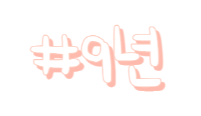
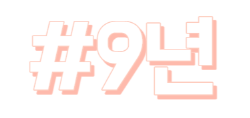
Add gallery images and Modify fonts in images

Changed region(s): [[0.0896, 0.1293, 0.8955, 0.8534], [0.4179, 0.181, 0.5373, 0.2069]]

diff --git a/index.html b/index.html
@@ -51,44 +51,46 @@
                 </div>
                 <div class="contact__wife">
                     <img class="to__main" src="./assets/images/invitation/to_wife.png">
-                    <img class="icon__call" src="./assets/images/invitation/call_pink.png">
-                    <img class="icon__sms" src="./assets/images/invitation/sms_pink.png">
+                    <a href="tel:01099051213"><img class="icon__call" src="./assets/images/invitation/call_pink.png"></a>
+                    <a href="sms:01099051213"><img class="icon__sms" src="./assets/images/invitation/sms_pink.png"></a>
                 </div>
                 <div class="contact_parents">
                     <div class="contact__parent--husband float__left">
                         <img class="to__parent" src="./assets/images/invitation/to_husband_parent.png">
                         <div class="to__father">
                             <img class="to__name" src="./assets/images/invitation/to_husband_father.png">
-                            <img class="icon__call--parent" src="./assets/images/invitation/call_blue.png">
-                            <img class="icon__sms--parent" src="./assets/images/invitation/sms_blue.png">
+                            <a href="tel:01048085283"><img class="icon__call--parent" src="./assets/images/invitation/call_blue.png"></a>
+                            <a href="sms:01048085283"><img class="icon__sms--parent" src="./assets/images/invitation/sms_blue.png"></a>
                         </div>
                         <div class="to__mother">
                             <img class="to__name" src="./assets/images/invitation/to_husband_mother.png">
-                            <img class="icon__call--parent" src="./assets/images/invitation/call_blue.png">
-                            <img class="icon__sms--parent" src="./assets/images/invitation/sms_blue.png">
+                            <a href="tel:01024845283"><img class="icon__call--parent" src="./assets/images/invitation/call_blue.png"></a>
+                            <a href="sms:01024845283"><img class="icon__sms--parent" src="./assets/images/invitation/sms_blue.png"></a>
                         </div>
                     </div>
                     <div class="contact__parent--wife float__right">
                         <img class="to__parent" src="./assets/images/invitation/to_wife_parent.png">
                         <div class="to__father">
                             <img class="to__name" src="./assets/images/invitation/to_wife_father.png">
-                            <img class="icon__call--parent" src="./assets/images/invitation/call_pink.png">
-                            <img class="icon__sms--parent" src="./assets/images/invitation/sms_pink.png">
+                            <a href="tel:01022049619"><img class="icon__call--parent" src="./assets/images/invitation/call_pink.png"></a>
+                            <a href="sms:01022049619"><img class="icon__sms--parent" src="./assets/images/invitation/sms_pink.png"></a>
                         </div>
                         <div class="to__mother">
                             <img class="to__name" src="./assets/images/invitation/to_wife_mother.png">
-                            <img class="icon__call--parent" src="./assets/images/invitation/call_pink.png">
-                            <img class="icon__sms--parent" src="./assets/images/invitation/sms_pink.png">
+                            <a href="tel:01066770466"><img class="icon__call--parent" src="./assets/images/invitation/call_pink.png"></a>
+                            <a href="sms:01066770466"><img class="icon__sms--parent" src="./assets/images/invitation/sms_pink.png"></a>
                         </div>
                     </div>
                     <div style="clear:both;"></div>
                 </div>
             </div>
         </div>
-        <div class="phone">
-
-        </div>
         <div class="gallery">
+            <div>
+                <img class="page__title--blossom" src="./assets/images/common/flower_blossom.png">
+                <img class="page__title" src="./assets/images/gallery/gallery_title.png">
+                <div style="clear:both;"></div>
+            </div>
 
         </div>
         <div class="location">

diff --git a/static/styles/style.css b/static/styles/style.css
@@ -93,7 +93,7 @@ div {
 
 .greeting__tag{
     position : absolute;
-    width:15%;
+    width:17%;
 }
 .greeting__tag--9year{
     left : 13%;
@@ -196,13 +196,13 @@ div {
 
 /* contact us */
 .to__main {
-    width:35%;
+    width:45%;
 }
 .icon__call{
-    width:10%;
+    width:12%;
 }
 .icon__sms {
-    width:10%;
+    width:12%;
 }
 
 /* contact parents */
@@ -221,7 +221,7 @@ div {
 }
 
 .to__parent {
-    width: 60%;
+    width: 85%;
     margin:0 auto 0 auto;
     display:block;
 }
@@ -229,15 +229,15 @@ div {
     text-align: center;
 }
 .to__name {
-    width:50%;
+    width:70%;
     margin:0 auto 0 auto;
     display:block;
 }
 .icon__call--parent {
-    width:25%;
+    width:30%;
 }
 .icon__sms--parent {
-    width:25%;
+    width:30%;
 }
 /* pad */
 @media screen and (max-width : 1200px) { 
